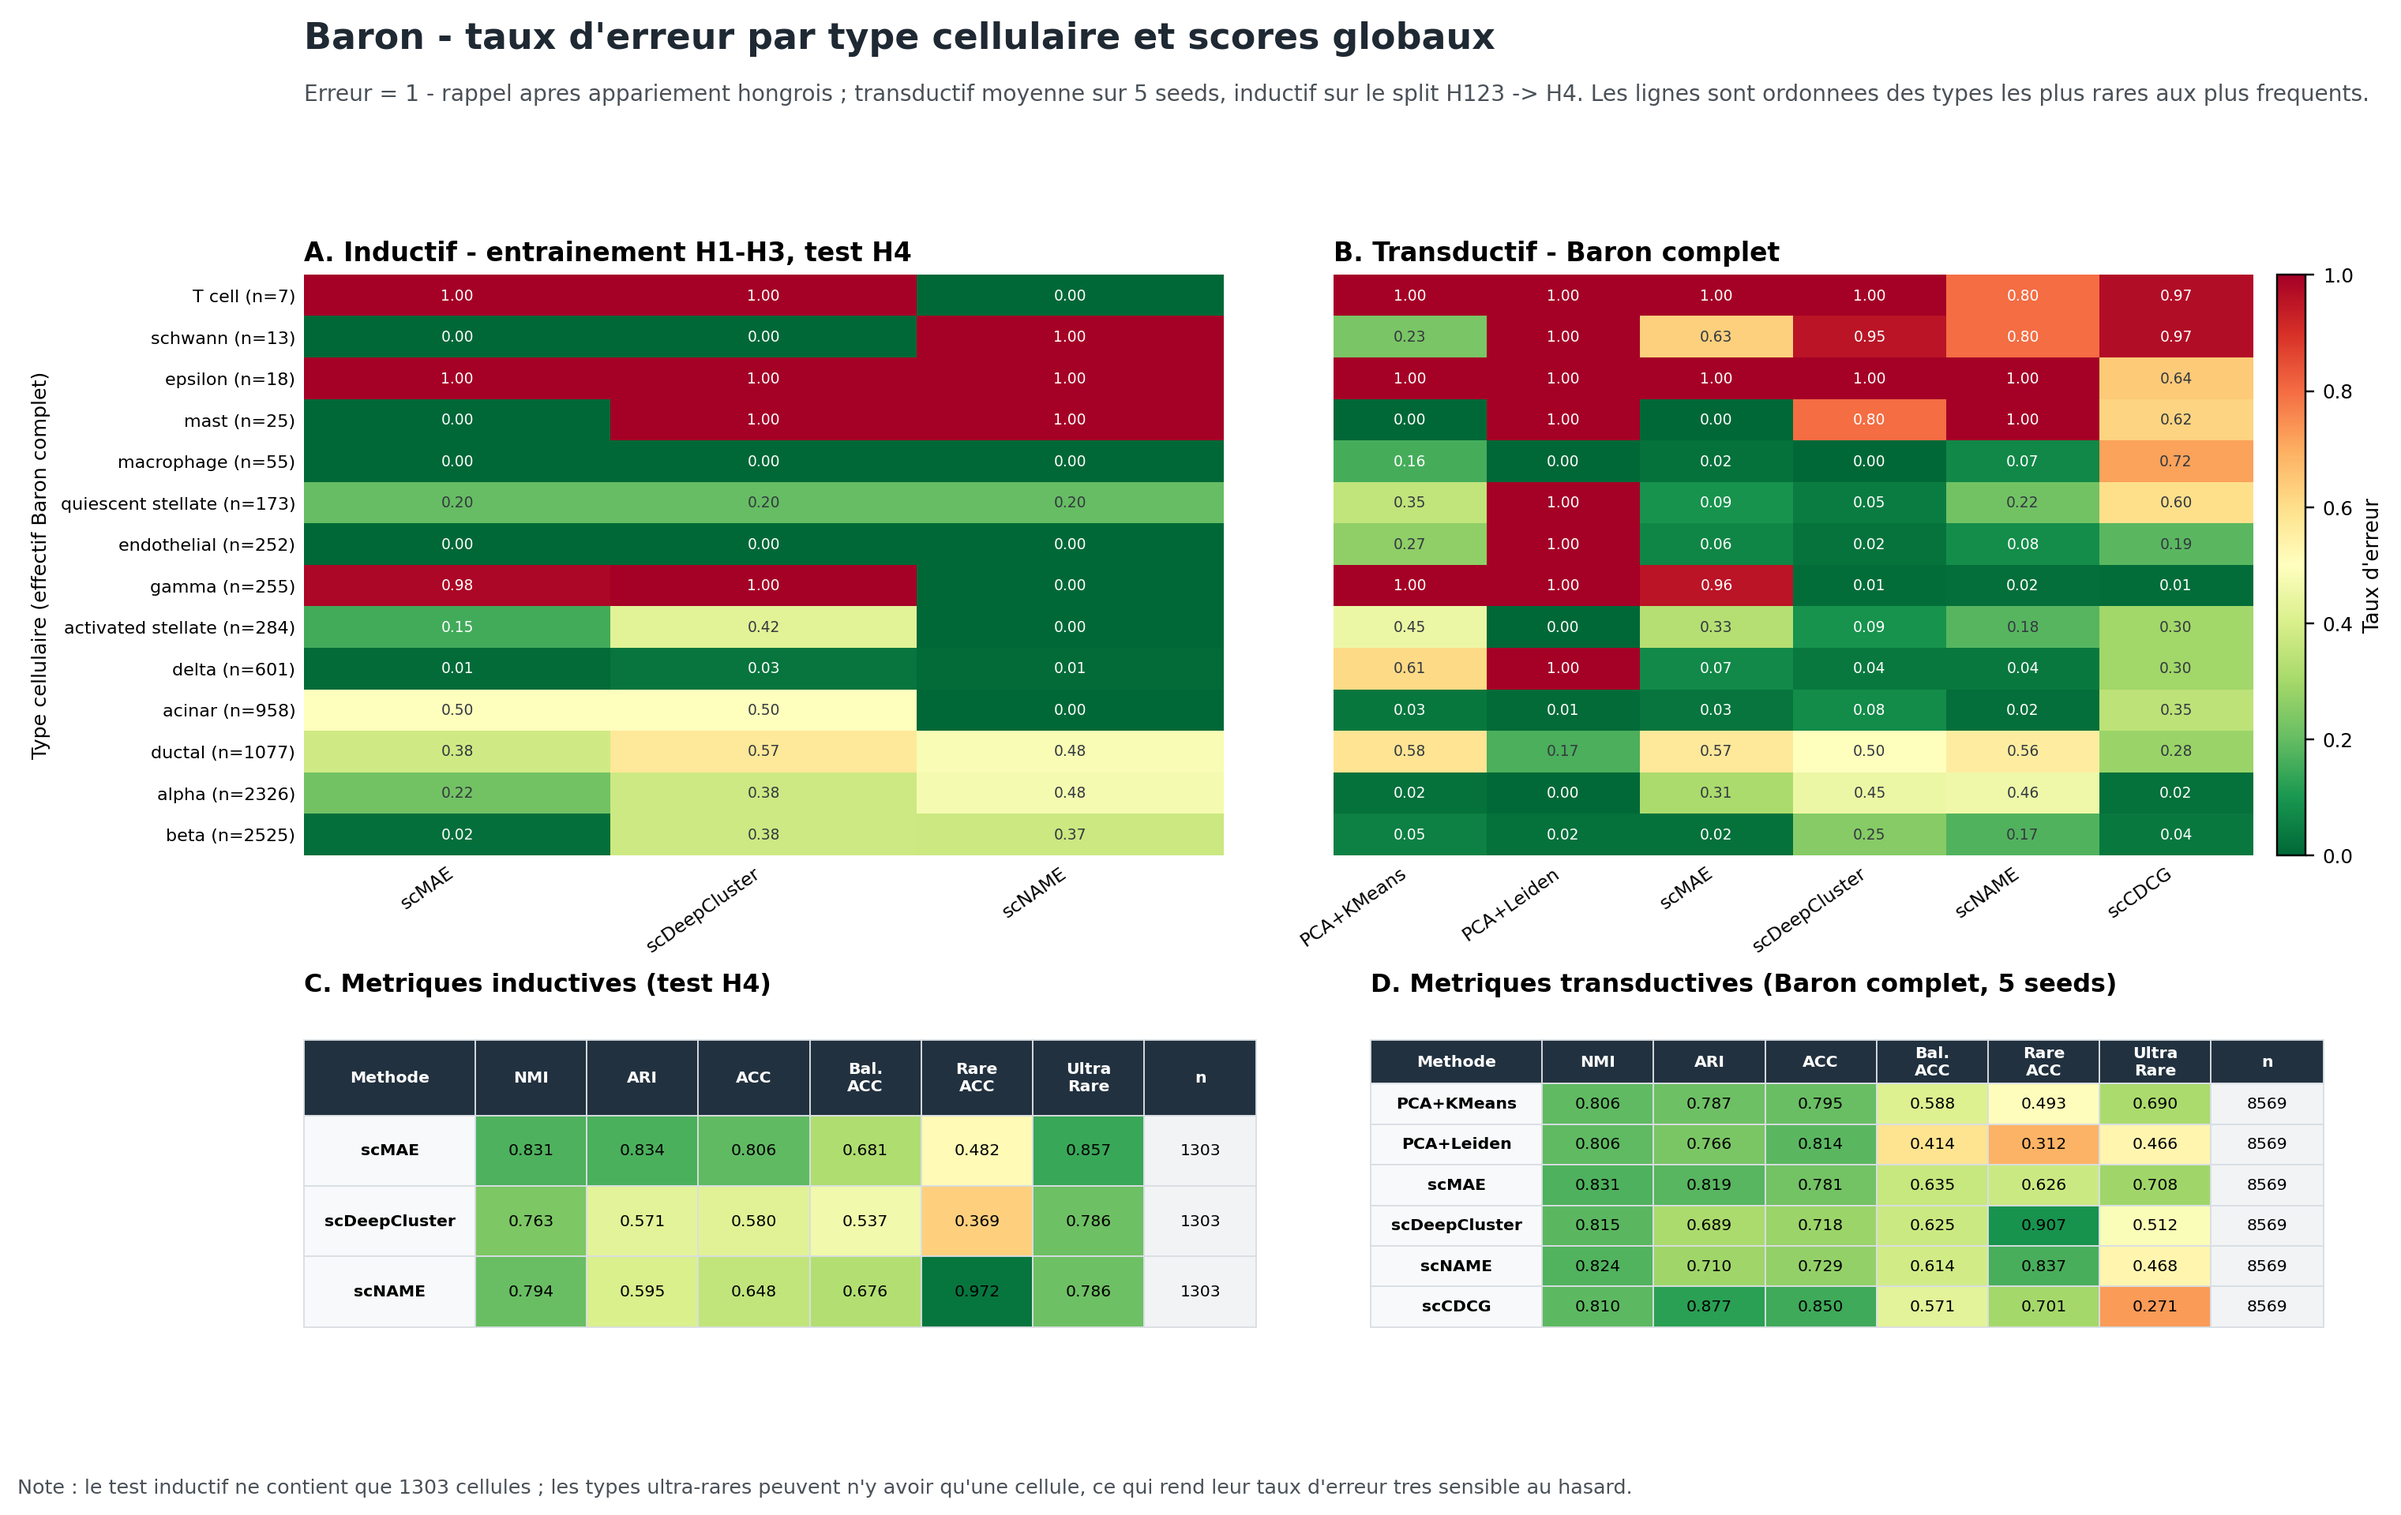
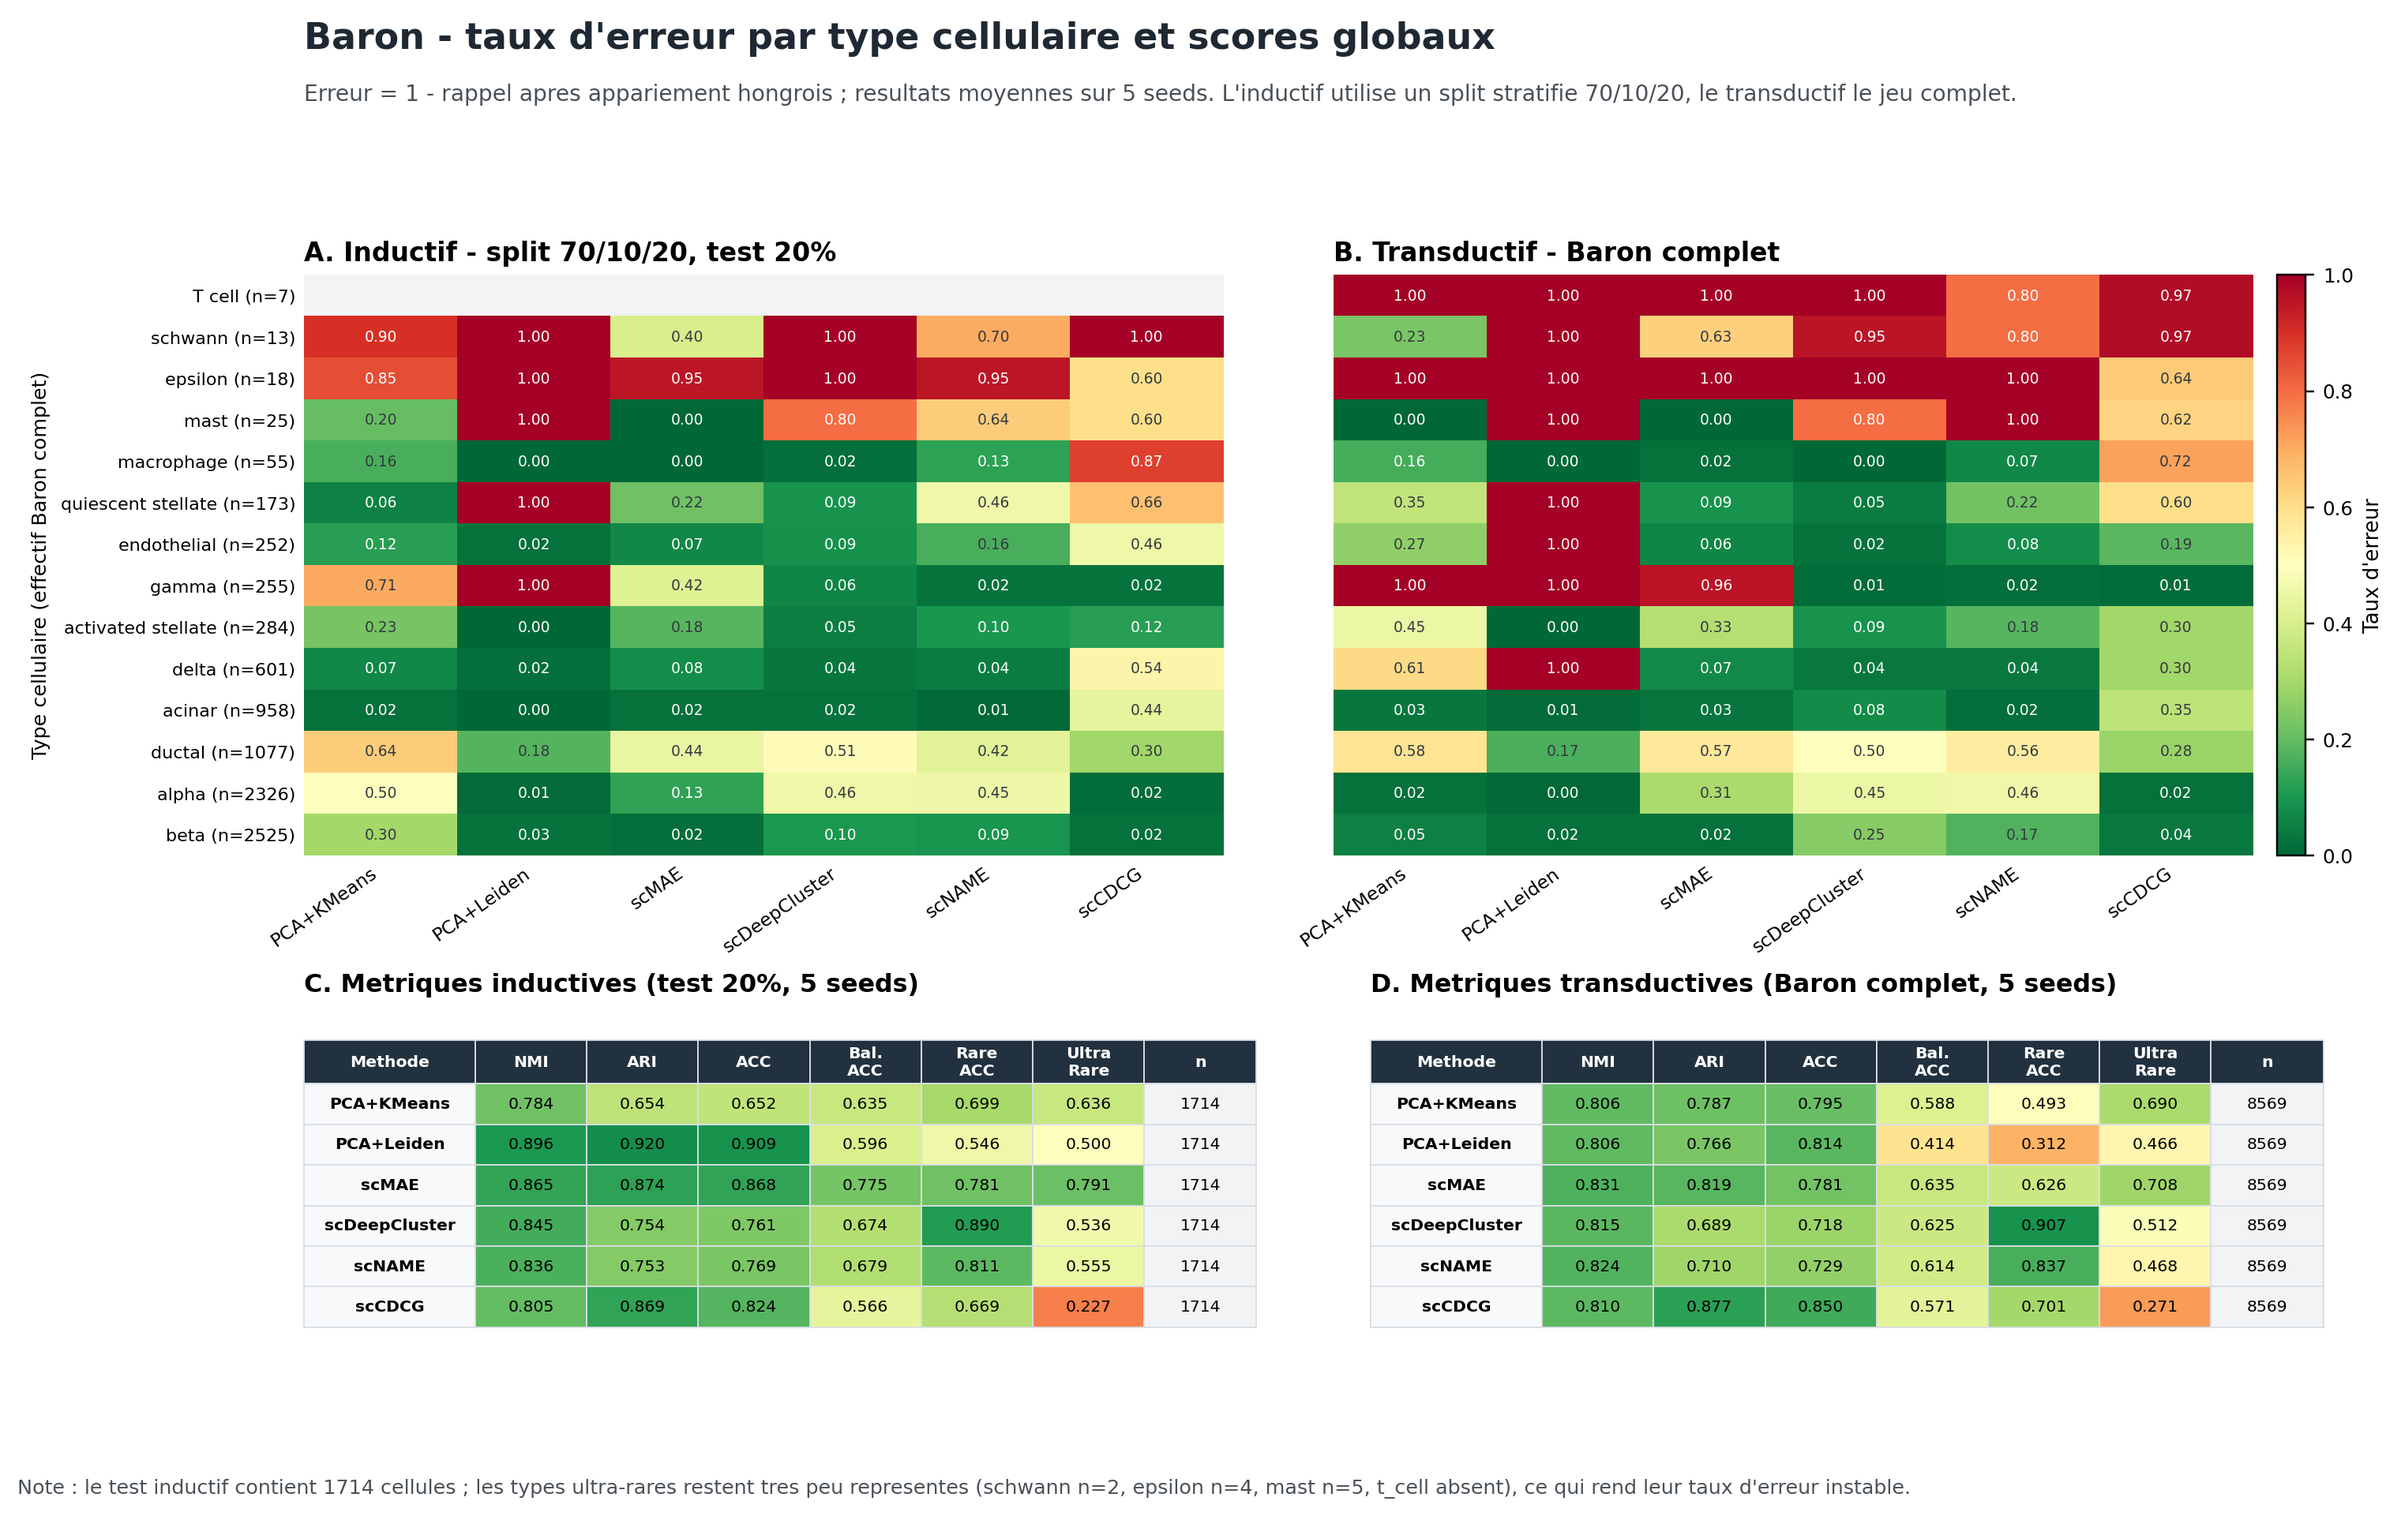
figure

diff --git a/Images/SCRBenchmark/generate_existant_analysis_figures.py b/Images/SCRBenchmark/generate_existant_analysis_figures.py
@@ -3,9 +3,7 @@
 
 from __future__ import annotations
 
-import json
 from pathlib import Path
-from typing import Any
 
 import matplotlib
 
@@ -30,9 +28,9 @@ BARON_FULL_ROOT = Path(
     "/data2/fbidet/SCRBenchmark/results/"
     "baron_full_existing_algorithms_5seeds_20260522_162936"
 )
-BARON_INDUCTIVE_ROOT = Path(
-    "/data2/fbidet/scRAW_Inductif/results/"
-    "inductive_baron_h123_to_h4_all_baselines_loss_metrics_20260511"
+BARON_SPLIT_ROOT = Path(
+    "/data2/fbidet/SCRBenchmark/results/"
+    "baron_split_70_10_20_existing_algorithms_5seeds_20260526_103715"
 )
 
 ALGORITHMS = [
@@ -45,9 +43,12 @@ ALGORITHMS = [
 ]
 
 INDUCTIVE_ALGORITHMS = [
-    ("sc_mae", "scMAE", BARON_INDUCTIVE_ROOT / "sc_mae_h123_to_h4" / "metrics.json"),
-    ("scdeepcluster", "scDeepCluster", BARON_INDUCTIVE_ROOT / "scdeepcluster_h123_to_h4" / "metrics.json"),
-    ("scname", "scNAME", BARON_INDUCTIVE_ROOT / "scname_h123_to_h4" / "metrics.json"),
+    ("pca_kmeans", "PCA+KMeans", BARON_SPLIT_ROOT / "gpu2_scname_classic"),
+    ("pca_leiden", "PCA+Leiden", BARON_SPLIT_ROOT / "gpu2_scname_classic"),
+    ("sc_mae", "scMAE", BARON_SPLIT_ROOT / "gpu1_deep_core"),
+    ("scdeepcluster", "scDeepCluster", BARON_SPLIT_ROOT / "gpu1_deep_core"),
+    ("scname", "scNAME", BARON_SPLIT_ROOT / "gpu2_scname_classic"),
+    ("sccdcg", "scCDCG", BARON_SPLIT_ROOT / "gpu1_deep_core"),
 ]
 
 CELL_ORDER = [
@@ -143,6 +144,11 @@ def transductive_label_path(algorithm_key: str, run_id: int) -> Path:
     return root / "results" / "labels" / f"labels_{algorithm_key}_run{run_id}.csv"
 
 
+def inductive_label_path(algorithm_key: str, run_id: int) -> Path:
+    root = {key: path for key, _, path in INDUCTIVE_ALGORITHMS}[algorithm_key]
+    return root / "results" / "labels" / f"benchmark_{algorithm_key}_run{run_id}_test.csv"
+
+
 def evaluate_label_file(
     path: Path,
     rare: set[str],
@@ -191,28 +197,6 @@ def evaluate_label_file(
     return metrics, errors
 
 
-def weighted_recall(classwise: dict[str, dict[str, float]], classes: set[str]) -> tuple[float, int]:
-    support = 0
-    correct = 0.0
-    for cell_type in classes:
-        row = classwise.get(cell_type)
-        if not row:
-            continue
-        row_support = int(row.get("Support", 0))
-        support += row_support
-        correct += row_support * float(row.get("Recall", 0.0))
-    if support == 0:
-        return float("nan"), 0
-    return float(correct / support), support
-
-
-def read_json(path: Path) -> dict[str, Any]:
-    if not path.exists():
-        raise FileNotFoundError(path)
-    with path.open(encoding="utf-8") as handle:
-        return json.load(handle)
-
-
 def collect_transductive(full_support: pd.Series) -> tuple[pd.DataFrame, pd.DataFrame]:
     rare, ultra = rare_sets(full_support)
     metric_rows: list[dict[str, float | int | str]] = []
@@ -252,52 +236,34 @@ def collect_inductive(full_support: pd.Series) -> tuple[pd.DataFrame, pd.DataFra
     rare, ultra = rare_sets(full_support)
     metric_rows: list[dict[str, float | int | str]] = []
     error_rows: list[dict[str, float | int | str]] = []
-    for algorithm_key, method_name, path in INDUCTIVE_ALGORITHMS:
-        metrics_json = read_json(path)
-        test_metrics = metrics_json["test_metrics"]
-        classwise = test_metrics["ClassWise"]
-        n_eval = int(test_metrics["n_samples_evaluated"])
-        rare_acc, n_rare = weighted_recall(classwise, rare)
-        ultra_acc, n_ultra = weighted_recall(classwise, ultra)
-        supports = [int(row.get("Support", 0)) for row in classwise.values()]
-
-        metric_rows.append(
-            {
-                "mode_key": "inductive",
-                "mode": "Inductif",
-                "algorithm_key": algorithm_key,
-                "Methode": method_name,
-                "seed": int(metrics_json.get("seed", 42)),
-                "NMI": float(test_metrics["NMI"]),
-                "ARI": float(test_metrics["ARI"]),
-                "ACC": float(test_metrics["ACC"]),
-                "BalancedACC": float(test_metrics["BalancedACC"]),
-                "F1Macro": float(test_metrics["F1_Macro"]),
-                "RareACC": rare_acc,
-                "UltraRareACC": ultra_acc,
-                "n_eval": float(n_eval),
-                "n_rare_cells": float(n_rare),
-                "n_ultrarare_cells": float(n_ultra),
-                "min_class_support": float(min(supports)),
-            }
-        )
-
-        for cell_type in CELL_ORDER:
-            row = classwise.get(cell_type, {})
-            recall = float(row.get("Recall", np.nan))
-            support = float(row.get("Support", 0))
-            error_rows.append(
+    for algorithm_key, method_name, _ in INDUCTIVE_ALGORITHMS:
+        for run_id in range(5):
+            metrics, errors = evaluate_label_file(
+                inductive_label_path(algorithm_key, run_id),
+                rare,
+                ultra,
+            )
+            metric_rows.append(
                 {
                     "mode_key": "inductive",
                     "mode": "Inductif",
                     "algorithm_key": algorithm_key,
                     "Methode": method_name,
-                    "seed": int(metrics_json.get("seed", 42)),
-                    "cell_type": cell_type,
-                    "support": support,
-                    "error_rate": 1.0 - recall if not pd.isna(recall) else float("nan"),
+                    "seed": run_id,
+                    **metrics,
                 }
             )
+            for row in errors:
+                error_rows.append(
+                    {
+                        "mode_key": "inductive",
+                        "mode": "Inductif",
+                        "algorithm_key": algorithm_key,
+                        "Methode": method_name,
+                        "seed": run_id,
+                        **row,
+                    }
+                )
     return pd.DataFrame(metric_rows), pd.DataFrame(error_rows)
 
 
@@ -463,8 +429,8 @@ def plot_baron_inductive_transductive_error_panel() -> None:
     ax_title.text(
         0.0,
         0.25,
-        "Erreur = 1 - rappel apres appariement hongrois ; transductif moyenne sur 5 seeds, "
-        "inductif sur le split H123 -> H4. Les lignes sont ordonnees des types les plus rares aux plus frequents.",
+        "Erreur = 1 - rappel apres appariement hongrois ; resultats moyennes sur 5 seeds. "
+        "L'inductif utilise un split stratifie 70/10/20, le transductif le jeu complet.",
         transform=ax_title.transAxes,
         fontsize=9.2,
         color="#495057",
@@ -478,7 +444,7 @@ def plot_baron_inductive_transductive_error_panel() -> None:
         "Inductif",
         inductive_methods,
         full_support,
-        "A. Inductif - entrainement H1-H3, test H4",
+        "A. Inductif - split 70/10/20, test 20%",
         show_ylabels=True,
     )
     draw_error_heatmap(
@@ -500,7 +466,7 @@ def plot_baron_inductive_transductive_error_panel() -> None:
         ax_table_inductive,
         metrics,
         "Inductif",
-        "C. Metriques inductives (test H4)",
+        "C. Metriques inductives (test 20%, 5 seeds)",
     )
     draw_metric_table(
         ax_table_transductive,
@@ -512,8 +478,8 @@ def plot_baron_inductive_transductive_error_panel() -> None:
     fig.text(
         0.015,
         0.012,
-        "Note : le test inductif ne contient que 1303 cellules ; les types ultra-rares peuvent n'y avoir qu'une cellule, "
-        "ce qui rend leur taux d'erreur tres sensible au hasard.",
+        "Note : le test inductif contient 1714 cellules ; les types ultra-rares restent tres peu representes "
+        "(schwann n=2, epsilon n=4, mast n=5, t_cell absent), ce qui rend leur taux d'erreur instable.",
         fontsize=8.3,
         color="#495057",
     )
